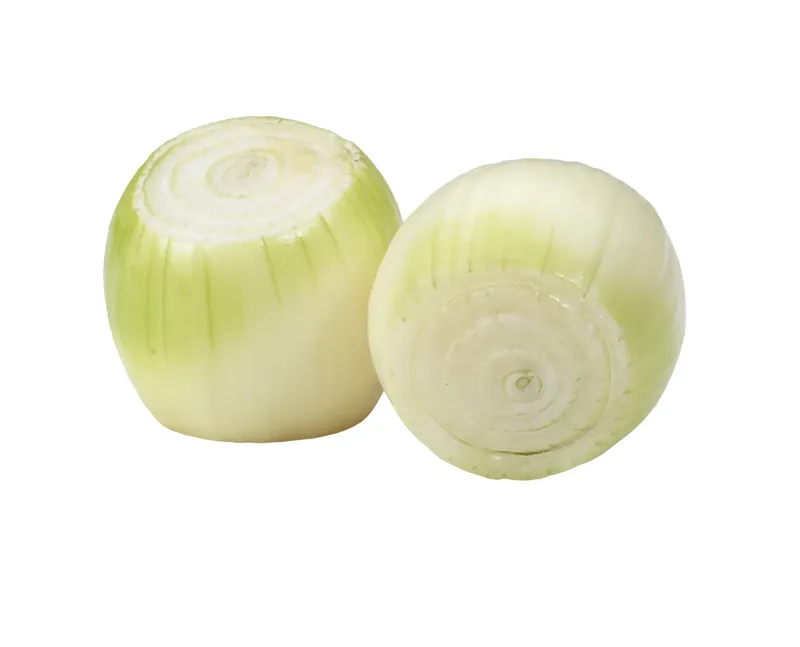
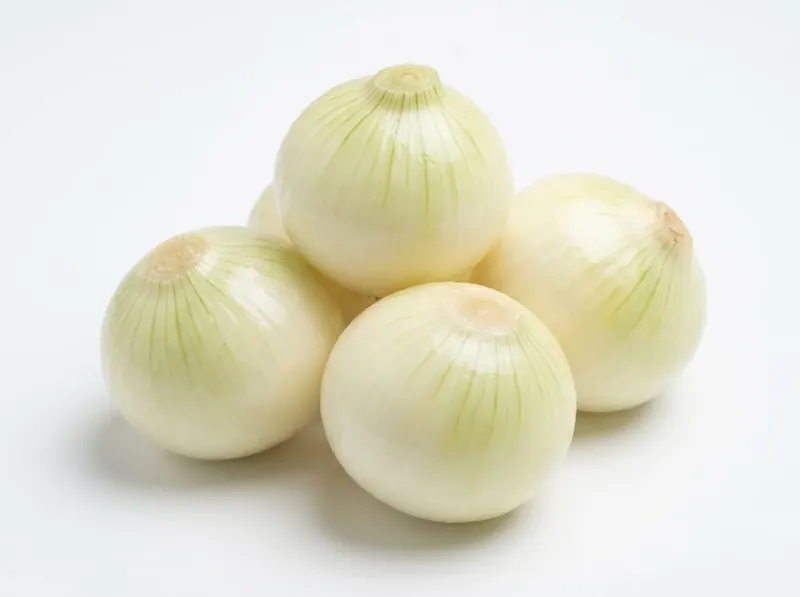
Photos: peeled onion product tile
Claude-Session: https://claude.ai/code/session_01FXJ2rbHnbSjxptSmxWtMMX

diff --git a/zamow/sw.js b/zamow/sw.js
@@ -1,5 +1,5 @@
 // Offline cache for the ordering app. Bump VERSION when files change.
-const VERSION = "sylwia-zamow-v27";
+const VERSION = "sylwia-zamow-v28";
 const ASSETS = ["./", "index.html", "app.css", "app.js", "products.js", "manifest.webmanifest",
   "icons/icon-192.png", "../img/favicon.svg",
   "../fonts/jost-latin.woff2", "../fonts/jost-latin-ext.woff2"];
